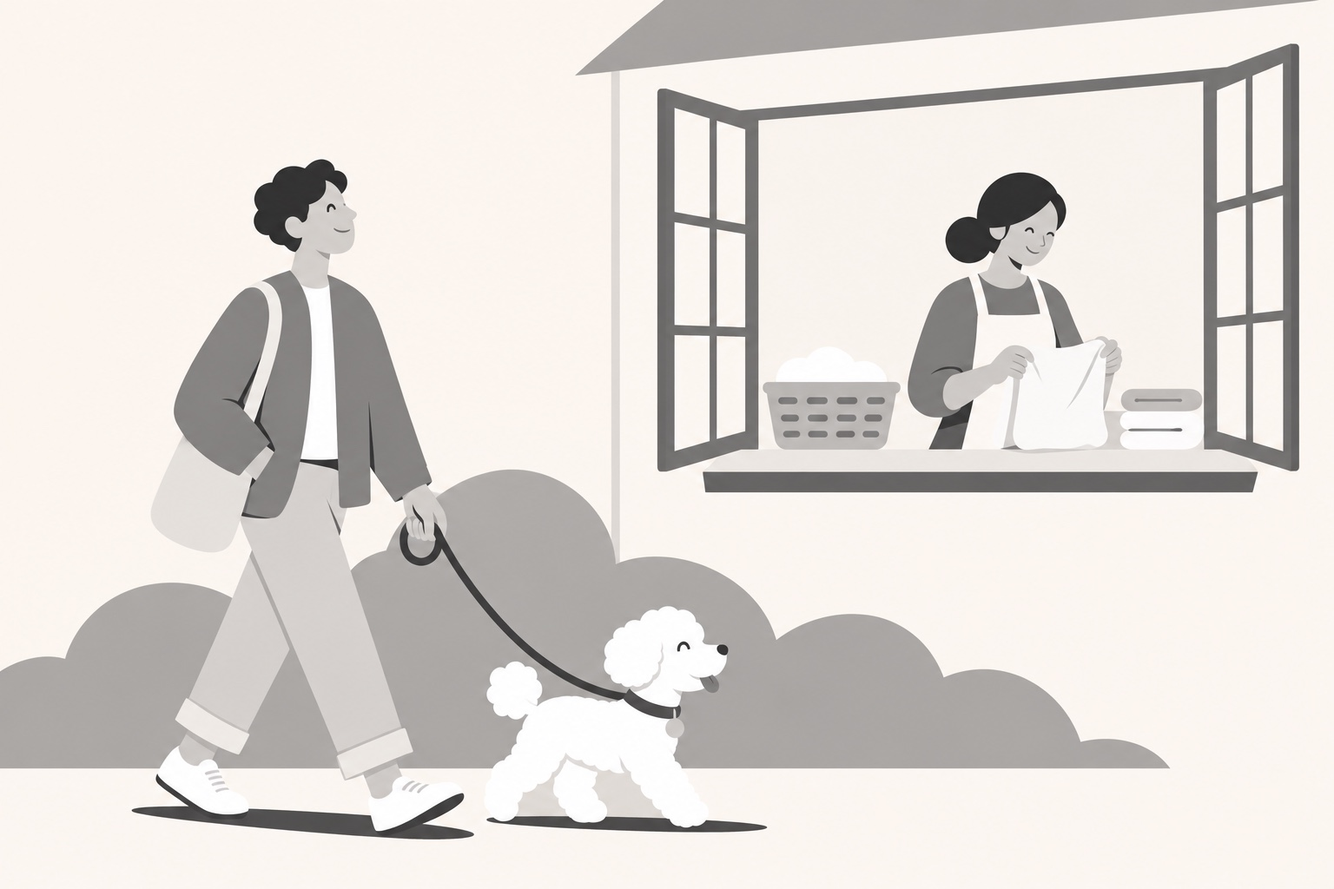
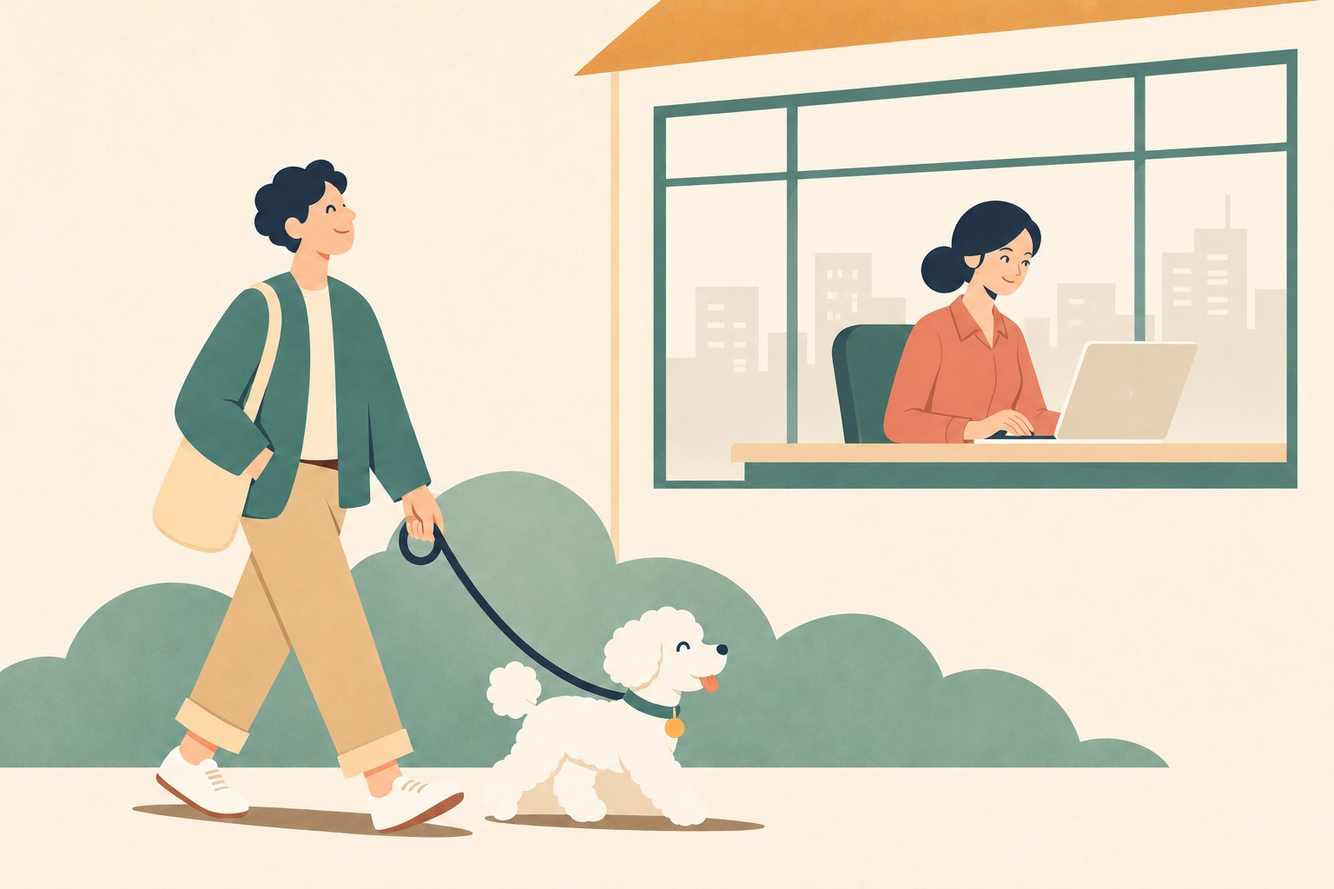
Refine Mongram visual stories and restore LaLaTulle side hero

diff --git a/mongram.html b/mongram.html
@@ -11,7 +11,7 @@
 <link rel="icon" href="data:," />
 <link rel="stylesheet" href="site-header.css?v=2" />
 <link rel="stylesheet" href="mongram.css?v=5" />
-<link rel="stylesheet" href="mongram-narrative-20261108.css?v=20261108-breeds-plan" />
+<link rel="stylesheet" href="mongram-narrative-20261108.css?v=20261109-character-layout" />
   <link rel="stylesheet" href="portfolio-images.css?v=20261108" />
     <link rel="stylesheet" href="portfolio-footer.css?v=20261108-full-link" />
 </head>
@@ -37,12 +37,12 @@
 <figure class="shot-slot shot-phone" data-screenshot-slot="hero-home"><img src="assets/mongram/home-demo.png" alt="Mongram seated-dog Home, November 5 simulator demo" width="1206" height="2622" fetchpriority="high"/><figcaption data-case-en="Home" data-case-ko="홈">ホーム</figcaption></figure>
 <figure class="shot-slot shot-phone" data-screenshot-slot="hero-walk"><img src="assets/mongram/walk-demo.png" alt="Mongram active-walk interface, November 5 simulator demo" width="1206" height="2622" fetchpriority="high"/><figcaption data-case-en="Active walk" data-case-ko="산책 중">散歩中</figcaption></figure></div></section>
 <section class="mg-summary mg-shell n-compact-facts"><div><span class="eyebrow">ROLE</span><p data-case-en="Product planning · Information architecture · UI&lt;br&gt;Implementation with GPT / Codex" data-case-ko="기획·정보 구조·UI 디자인&lt;br&gt;GPT / Codex와 구현">企画・情報設計・UIデザイン<br>GPT / Codexと実装</p></div><div><span class="eyebrow">CODE</span><p>Swift · SwiftUI · SwiftData</p></div></section>
-<section id="problem" class="n-section "><div class="n-wrap"><h2 data-case-en="Sharing the time spent apart" data-case-ko="함께하지 못한 시간도 가족과 공유">離れている時間も、家族で共有</h2><p class="n-intro" data-case-en="While I walk our dog, my wife sometimes handles the housework. That experience led me to design a way for family to share the dog’s day." data-case-ko="제가 강아지와 산책할 때 아내는 집안일을 하기도 합니다. 이 경험에서, 함께하지 못한 강아지의 하루를 가족과 나누는 앱을 생각했습니다.">私が散歩する間、妻は家事をしている。その経験から、別々に過ごす家族と愛犬の一日を共有するアプリを考えました。</p><div class="n-scenario-art"><figure><img src="assets/mongram/scenario-shared-care-20261108.jpg" width="1536" height="1024" alt="Illustrated scenario: one adult walks the dog while another folds laundry at home" loading="lazy"/><figcaption data-case-en="A couple with busy everyday lives" data-case-ko="바쁜 일상을 보내는 부부">忙しい毎日を送る夫婦</figcaption></figure><figure><img src="assets/mongram/scenario-family-apart-20261108.jpg?v=family-20261108" width="1536" height="1024" alt="Illustrated scenario: family in different homes sharing the dog’s day" loading="lazy"/><figcaption data-case-en="Family living apart" data-case-ko="떨어져 사는 가족">離れて暮らす家族</figcaption></figure></div><p class="n-evidence" data-case-en="I also observed nearby couples walking dogs. Their reasons for walking separately were not investigated; a need for sharing remains a hypothesis." data-case-ko="주변 부부들의 산책도 관찰했습니다. 따로 걷는 이유를 물은 것은 아니므로, 공유의 필요성은 가설입니다.">近所の夫婦の散歩も観察。ただし、別々に歩く理由は聞いておらず、共有の必要性は仮説です。</p></div></section>
+<section id="problem" class="n-section "><div class="n-wrap"><h2 data-case-en="Sharing the time spent apart" data-case-ko="함께하지 못한 시간도 가족과 공유">離れている時間も、家族で共有</h2><p class="n-intro" data-case-en="For couples with busy everyday lives, I designed a way to share the dog’s day even when they cannot walk together." data-case-ko="바쁜 일상을 보내는 부부가 함께 산책하지 못해도, 강아지의 하루를 서로 나눌 수 있도록 생각했습니다.">忙しい毎日を送る夫婦が、一緒に散歩できなくても愛犬の一日を共有できるように考えました。</p><div class="n-scenario-art"><figure><img src="assets/mongram/scenario-shared-care-20261108.jpg?v=color-office-20261109" width="1536" height="1024" alt="Illustrated scenario: a husband walks the dog while his wife works in an office" loading="lazy"/><figcaption data-case-en="A couple with busy everyday lives" data-case-ko="바쁜 일상을 보내는 부부">忙しい毎日を送る夫婦</figcaption></figure><figure><img src="assets/mongram/scenario-family-apart-20261108.jpg?v=color-family-20261109" width="1536" height="1024" alt="Illustrated scenario: family in different homes sharing the dog’s day" loading="lazy"/><figcaption data-case-en="Family living apart" data-case-ko="떨어져 사는 가족">離れて暮らす家族</figcaption></figure></div><p class="n-evidence" data-case-en="I also observed nearby couples walking dogs. Their reasons for walking separately were not investigated; a need for sharing remains a hypothesis." data-case-ko="주변 부부들의 산책도 관찰했습니다. 따로 걷는 이유를 물은 것은 아니므로, 공유의 필요성은 가설입니다.">近所の夫婦の散歩も観察。ただし、別々に歩く理由は聞いておらず、共有の必要性は仮説です。</p></div></section>
 <section id="decisions" class="n-section n-dark"><div class="n-wrap"><h2 data-case-en="Replay the walk through route and photos" data-case-ko="경로와 사진으로 산책 다시보기">散歩を、ルートと写真で振り返る</h2><p class="n-intro" data-case-en="Replay the route and photos in sequence, so family can follow the walk beyond distance and time." data-case-ko="거리·시간뿐 아니라 경로와 사진을 시간순으로 재생해, 가족이 그날의 산책을 따라가 볼 수 있게 했습니다.">距離や時間だけでなく、ルートと写真を時系列で再生。家族がその日の散歩をたどれるようにしました。</p><ol class="n-sharing-flow" aria-label="Sharing flow"><li><svg viewBox="0 0 24 24" aria-hidden="true" focusable="false" fill="none" stroke="currentColor" stroke-width="1.7" stroke-linecap="round" stroke-linejoin="round"><path d="M4 17c0-4 4-4 4-8s4-4 4-4"/><circle cx="4" cy="19" r="2"/><path d="m12 3 5 2-5 2V3Z"/></svg><span data-case-en="Record the walk" data-case-ko="산책 기록">散歩を記録</span></li><li><svg viewBox="0 0 24 24" aria-hidden="true" focusable="false" fill="none" stroke="currentColor" stroke-width="1.7" stroke-linecap="round" stroke-linejoin="round"><rect x="3" y="5" width="18" height="14" rx="2"/><circle cx="8" cy="10" r="1.3"/><path d="m4 17 5-5 4 4 3-3 4 4"/></svg><span data-case-en="Capture moments" data-case-ko="사진 남기기">写真を残す</span></li><li><svg viewBox="0 0 24 24" aria-hidden="true" focusable="false" fill="none" stroke="currentColor" stroke-width="1.7" stroke-linecap="round" stroke-linejoin="round"><path d="m8 5 11 7-11 7V5Z"/></svg><span data-case-en="Family replays" data-case-ko="가족이 다시보기">家族が再生</span></li></ol><div class="n-screen-pair n-feature-pair"><figure class="n-figure "><div class="n-image-link"><img src="assets/mongram/history-demo.png" width="1206" height="2622" alt="Mongram family walk history demo" loading="lazy" decoding="async"/></div><figcaption data-case-en="Shared history" data-case-ko="가족 산책 기록">家族の記録</figcaption></figure><figure class="n-figure "><div class="n-image-link"><img src="assets/mongram/replay-demo.png" width="1206" height="2622" alt="Mongram route and photo replay demo" loading="lazy" decoding="async"/></div><figcaption data-case-en="Route and photo replay" data-case-ko="경로·사진 다시보기">ルートと写真の再生</figcaption></figure></div></div></section>
 <section id="home-design" class="n-section "><div class="n-wrap"><h2 data-case-en="Home focuses on walking" data-case-ko="홈은 산책에 집중">ホームは、散歩に集中</h2><p class="n-intro" data-case-en="I replaced an early Home packed with schedules and preventive-medication dates with a focus on starting and revisiting walks." data-case-ko="일정·사상충 예방약 등을 넣었던 초기 홈을, 산책 시작과 기록에 집중하는 화면으로 바꿨습니다.">予定・フィラリア予防薬などを並べた初期案から、散歩の開始と記録を中心にしたホームへ。</p><div class="n-home-comparison"><figure class="n-before"><figcaption class="n-compare-badge" data-case-en="BEFORE / Early structure diagram" data-case-ko="BEFORE / 초기 구성 설명도">BEFORE / 初期構成の模式図</figcaption><div class="n-wireframe"><h3 data-case-en="Home" data-case-ko="홈">ホーム</h3><div><p data-case-en="Schedule" data-case-ko="일정">予定</p></div><div><p data-case-en="Preventive medication" data-case-ko="예방약">予防薬</p></div><div><p data-case-en="Calendar" data-case-ko="캘린더">カレンダー</p></div><div><p data-case-en="Walk" data-case-ko="산책">散歩</p></div></div></figure><div class="n-arrow" aria-hidden="true">→</div><figure class="n-figure n-after"><div class="n-image-link"><img src="assets/mongram/home-demo.png" width="1206" height="2622" alt="Walk-focused seated-dog Home demonstration" loading="lazy" decoding="async"/></div><figcaption data-case-en="AFTER / Walk-focused Home" data-case-ko="AFTER / 산책 중심 홈">AFTER / 散歩中心のホーム</figcaption></figure></div></div></section>
-<section id="character" class="n-section n-paper"><div class="n-wrap"><h2 data-case-en="Characters make opening the app enjoyable" data-case-ko="앱을 여는 재미를 캐릭터로">開く楽しさを、キャラクターで</h2><p class="n-intro" data-case-en="Characters and movement for 18 breeds add a reason to open the app beyond recording. The effect on return visits is untested." data-case-ko="18개 견종의 캐릭터와 움직임으로, 기록할 일이 없어도 앱을 여는 재미를 주고자 했습니다. 재방문 효과는 아직 검증하지 않았습니다.">18犬種のキャラクターと動きで、記録以外にも開く楽しさを。再訪への効果は未検証です。</p><figure class="mg-breed-screen"><img src="assets/mongram/breed-selection-simulator.png" width="1206" height="2622" alt="Mongram breed selection screen in the simulator, disconnected preview with disabled choices" loading="lazy"/><figcaption data-case-en="Breed selection · Simulator preview (disconnected)" data-case-ko="견종 선택 · 시뮬레이터 미연결 프리뷰">犬種選択 · シミュレーターの未接続プレビュー</figcaption></figure><div class="mg-breed-grid"><figure><img src="assets/mongram/breeds/borderCollie.svg" width="112" height="144" alt="Border collie" loading="lazy"/><figcaption data-case-en="Border collie" data-case-ko="보더콜리">ボーダー・コリー</figcaption></figure><figure><img src="assets/mongram/breeds/toyPoodle.svg" width="112" height="144" alt="Toy poodle" loading="lazy"/><figcaption data-case-en="Toy poodle" data-case-ko="토이푸들">トイプードル</figcaption></figure><figure><img src="assets/mongram/breeds/yorkshireTerrier.svg" width="112" height="144" alt="Yorkshire Terrier" loading="lazy"/><figcaption data-case-en="Yorkshire Terrier" data-case-ko="요크셔테리어">ヨークシャー・テリア</figcaption></figure><figure><img src="assets/mongram/breeds/chihuahua.svg" width="112" height="144" alt="Chihuahua" loading="lazy"/><figcaption data-case-en="Chihuahua" data-case-ko="치와와">チワワ</figcaption></figure><figure><img src="assets/mongram/breeds/pomeranian.svg" width="112" height="144" alt="Pomeranian" loading="lazy"/><figcaption data-case-en="Pomeranian" data-case-ko="포메라니안">ポメラニアン</figcaption></figure><figure><img src="assets/mongram/breeds/corgi.svg" width="112" height="144" alt="Welsh Corgi" loading="lazy"/><figcaption data-case-en="Welsh Corgi" data-case-ko="웰시코기">ウェルシュ・コーギー</figcaption></figure><figure><img src="assets/mongram/breeds/cockerSpaniel.svg" width="112" height="144" alt="Cocker Spaniel" loading="lazy"/><figcaption data-case-en="Cocker Spaniel" data-case-ko="코커스패니얼">コッカー・スパニエル</figcaption></figure><figure><img src="assets/mongram/breeds/retriever.svg" width="112" height="144" alt="Retriever" loading="lazy"/><figcaption data-case-en="Retriever" data-case-ko="리트리버">レトリバー</figcaption></figure><figure><img src="assets/mongram/breeds/dachshund.svg" width="112" height="144" alt="Dachshund" loading="lazy"/><figcaption data-case-en="Dachshund" data-case-ko="닥스훈트">ダックスフント</figcaption></figure><figure><img src="assets/mongram/breeds/maltese.svg" width="112" height="144" alt="Maltese" loading="lazy"/><figcaption data-case-en="Maltese" data-case-ko="말티즈">マルチーズ</figcaption></figure><figure><img src="assets/mongram/breeds/husky.svg" width="112" height="144" alt="Siberian Husky" loading="lazy"/><figcaption data-case-en="Siberian Husky" data-case-ko="시베리안 허스키">シベリアン・ハスキー</figcaption></figure><figure><img src="assets/mongram/breeds/papillon.svg" width="112" height="144" alt="Papillon" loading="lazy"/><figcaption data-case-en="Papillon" data-case-ko="파피용">パピヨン</figcaption></figure><figure><img src="assets/mongram/breeds/beagle.svg" width="112" height="144" alt="Beagle" loading="lazy"/><figcaption data-case-en="Beagle" data-case-ko="비글">ビーグル</figcaption></figure><figure><img src="assets/mongram/breeds/schnauzer.svg" width="112" height="144" alt="Schnauzer" loading="lazy"/><figcaption data-case-en="Schnauzer" data-case-ko="슈나우저">シュナウザー</figcaption></figure><figure><img src="assets/mongram/breeds/shiba.svg" width="112" height="144" alt="Shiba inu" loading="lazy"/><figcaption data-case-en="Shiba inu" data-case-ko="시바견">柴犬</figcaption></figure><figure><img src="assets/mongram/breeds/bichon.svg" width="112" height="144" alt="Bichon frisé" loading="lazy"/><figcaption data-case-en="Bichon frisé" data-case-ko="비숑">ビション・フリーゼ</figcaption></figure><figure><img src="assets/mongram/breeds/pug.svg" width="112" height="144" alt="Pug" loading="lazy"/><figcaption data-case-en="Pug" data-case-ko="퍼그">パグ</figcaption></figure><figure><img src="assets/mongram/breeds/dalmatian.svg" width="112" height="144" alt="Dalmatian" loading="lazy"/><figcaption data-case-en="Dalmatian" data-case-ko="달마시안">ダルメシアン</figcaption></figure></div></div></section>
-<section id="island" class="n-section "><div class="n-wrap"><h2 data-case-en="Check progress and return to the app" data-case-ko="산책 중 확인과 앱 복귀">散歩中の確認と、アプリへの復帰</h2><p class="n-intro" data-case-en="Inspired by running apps, time and distance stay visible, with Live Activity providing a quick way back into the app." data-case-ko="러닝 앱처럼 시간·거리를 한눈에 확인하고, Live Activity로 앱에 쉽게 돌아오도록 설계했습니다.">ランニングアプリを参考に、時間・距離をひと目で確認。Live Activityからアプリへ戻りやすくしました。</p><div class="n-screen-pair n-feature-pair"><figure class="n-figure "><div class="n-image-link"><img src="assets/mongram/walk-demo.png" width="1206" height="2622" alt="Mongram active walk demo" loading="lazy" decoding="async"/></div><figcaption data-case-en="Active walk" data-case-ko="산책 중">散歩中</figcaption></figure><figure class="n-figure "><div class="n-image-link"><img src="assets/mongram/lockscreen-demo.png" width="1206" height="2622" alt="Mongram Live Activity simulator demo" loading="lazy" decoding="async"/></div><figcaption data-case-en="Live Activity" data-case-ko="Live Activity">Live Activity</figcaption></figure></div></div></section>
-<section id="status" class="n-section n-dark"><div class="n-wrap"><h2 data-case-en="What remains to test" data-case-ko="앞으로 확인할 것">これから確かめること</h2><div class="mg-visual-tests"><article class="mg-test-row"><div class="mg-test-title"><span>01</span><h3 class="" data-case-en="A walk, start to finish." data-case-ko="산책, 시작부터 끝까지.">散歩を、最後まで。</h3></div><div class="mg-test-flow"><span class="" data-case-en="Home" data-case-ko="홈">ホーム</span><b aria-hidden="true">→</b><span class="" data-case-en="Start" data-case-ko="시작">開始</span><b aria-hidden="true">→</b><span class="" data-case-en="Walk" data-case-ko="산책">散歩</span><b aria-hidden="true">→</b><span class="" data-case-en="Finish" data-case-ko="종료">終了</span></div><p class="mg-test-measure" data-case-en="Measure: completion · friction points" data-case-ko="확인: 완료율 · 막히는 지점">見る指標：完了率・迷う箇所</p></article><article class="mg-test-row"><div class="mg-test-title"><span>02</span><h3 class="" data-case-en="Connect the family." data-case-ko="가족에게 연결되도록.">家族につながる。</h3></div><div class="mg-test-flow"><span class="" data-case-en="Invite" data-case-ko="초대">招待</span><b aria-hidden="true">→</b><span class="" data-case-en="Connect" data-case-ko="연결">接続</span><b aria-hidden="true">→</b><span class="" data-case-en="Push / Today’s record" data-case-ko="푸시 / 오늘 기록">通知 / 今日の記録</span></div><p class="mg-test-measure" data-case-en="Measure: connection success · push delivery · record access" data-case-ko="확인: 연결 성공률 · 알림 수신 · 기록 확인">見る指標：接続成功率・通知受信・記録確認</p></article><article class="mg-test-row mg-test-return"><div class="mg-test-title"><span>03</span><h3 class="" data-case-en="A reason to return daily." data-case-ko="매일, 다시 열 이유.">毎日、開く理由。</h3></div><div class="mg-return-levers"><div><b aria-hidden="true">12h</b><span class="" data-case-en="Post-walk reminder" data-case-ko="산책 완료 후 알림">散歩後の通知</span></div><div><b aria-hidden="true">♡</b><span class="" data-case-en="Dog conversation UI" data-case-ko="강아지 대화형 UI">犬との対話UI</span></div><div><b aria-hidden="true">↔</b><span class="" data-case-en="Family sharing" data-case-ko="가족 공유">家族共有</span></div></div><p class="mg-test-measure" data-case-en="Measure: retention · daily sessions" data-case-ko="확인: 리텐션 · 하루 접속 횟수">見る指標：リテンション・一日の起動回数</p></article></div></div></section>
+<section id="character" class="n-section n-paper"><div class="n-wrap"><h2 data-case-en="Characters make opening the app enjoyable" data-case-ko="앱을 여는 재미를 캐릭터로">開く楽しさを、キャラクターで</h2><p class="n-intro" data-case-en="Characters and movement for 18 breeds add a reason to open the app beyond recording. The effect on return visits is untested." data-case-ko="18개 견종의 캐릭터와 움직임으로, 기록할 일이 없어도 앱을 여는 재미를 주고자 했습니다. 재방문 효과는 아직 검증하지 않았습니다.">18犬種のキャラクターと動きで、記録以外にも開く楽しさを。再訪への効果は未検証です。</p><div class="mg-character-direction"><p class="mg-character-credit" data-case-en="I set the design direction and created the vectors with Codex." data-case-ko="디자인 방향은 직접 정하고, Codex로 벡터를 제작했습니다.">デザインの方向を定め、Codexでベクターを制作。</p><div><span class="" data-case-en="Minimal character" data-case-ko="미니멀한 캐릭터">ミニマルなキャラクター</span><span class="" data-case-en="Notion-logo reference" data-case-ko="Notion 로고 느낌">Notionロゴの表現を参考に</span><span class="" data-case-en="Starting with toy poodle" data-case-ko="토이푸들에서 시작">トイプードルから開始</span></div><p class="mg-character-origin" data-case-en="Earlier loading-art feedback: small, hand-drawn; avoid exaggerated head/body proportions." data-case-ko="초기 로딩 시안 피드백: 작고 손그림처럼 · 머리·몸 비례 과장 없이">初期ローディング案へのフィードバック：小さく、手描きらしく。頭・体の比率を誇張しない。</p></div><div class="mg-character-showcase"><figure class="mg-breed-screen"><img src="assets/mongram/breed-selection-user.png" width="664" height="1436" alt="Mongram dog character selection screen supplied by the user" loading="lazy"/><figcaption data-case-en="Dog character selection" data-case-ko="강아지 캐릭터 선택">犬のキャラクター選択</figcaption></figure><div class="mg-breed-grid"><figure><img src="assets/mongram/breeds/borderCollie.svg" width="112" height="144" alt="Border collie" loading="lazy"/><figcaption data-case-en="Border collie" data-case-ko="보더콜리">ボーダー・コリー</figcaption></figure><figure><img src="assets/mongram/breeds/toyPoodle.svg" width="112" height="144" alt="Toy poodle" loading="lazy"/><figcaption data-case-en="Toy poodle" data-case-ko="토이푸들">トイプードル</figcaption></figure><figure><img src="assets/mongram/breeds/yorkshireTerrier.svg" width="112" height="144" alt="Yorkshire Terrier" loading="lazy"/><figcaption data-case-en="Yorkshire Terrier" data-case-ko="요크셔테리어">ヨークシャー・テリア</figcaption></figure><figure><img src="assets/mongram/breeds/chihuahua.svg" width="112" height="144" alt="Chihuahua" loading="lazy"/><figcaption data-case-en="Chihuahua" data-case-ko="치와와">チワワ</figcaption></figure><figure><img src="assets/mongram/breeds/pomeranian.svg" width="112" height="144" alt="Pomeranian" loading="lazy"/><figcaption data-case-en="Pomeranian" data-case-ko="포메라니안">ポメラニアン</figcaption></figure><figure><img src="assets/mongram/breeds/corgi.svg" width="112" height="144" alt="Welsh Corgi" loading="lazy"/><figcaption data-case-en="Welsh Corgi" data-case-ko="웰시코기">ウェルシュ・コーギー</figcaption></figure><figure><img src="assets/mongram/breeds/cockerSpaniel.svg" width="112" height="144" alt="Cocker Spaniel" loading="lazy"/><figcaption data-case-en="Cocker Spaniel" data-case-ko="코커스패니얼">コッカー・スパニエル</figcaption></figure><figure><img src="assets/mongram/breeds/retriever.svg" width="112" height="144" alt="Retriever" loading="lazy"/><figcaption data-case-en="Retriever" data-case-ko="리트리버">レトリバー</figcaption></figure><figure><img src="assets/mongram/breeds/dachshund.svg" width="112" height="144" alt="Dachshund" loading="lazy"/><figcaption data-case-en="Dachshund" data-case-ko="닥스훈트">ダックスフント</figcaption></figure><figure><img src="assets/mongram/breeds/maltese.svg" width="112" height="144" alt="Maltese" loading="lazy"/><figcaption data-case-en="Maltese" data-case-ko="말티즈">マルチーズ</figcaption></figure><figure><img src="assets/mongram/breeds/husky.svg" width="112" height="144" alt="Siberian Husky" loading="lazy"/><figcaption data-case-en="Siberian Husky" data-case-ko="시베리안 허스키">シベリアン・ハスキー</figcaption></figure><figure><img src="assets/mongram/breeds/papillon.svg" width="112" height="144" alt="Papillon" loading="lazy"/><figcaption data-case-en="Papillon" data-case-ko="파피용">パピヨン</figcaption></figure><figure><img src="assets/mongram/breeds/beagle.svg" width="112" height="144" alt="Beagle" loading="lazy"/><figcaption data-case-en="Beagle" data-case-ko="비글">ビーグル</figcaption></figure><figure><img src="assets/mongram/breeds/schnauzer.svg" width="112" height="144" alt="Schnauzer" loading="lazy"/><figcaption data-case-en="Schnauzer" data-case-ko="슈나우저">シュナウザー</figcaption></figure><figure><img src="assets/mongram/breeds/shiba.svg" width="112" height="144" alt="Shiba inu" loading="lazy"/><figcaption data-case-en="Shiba inu" data-case-ko="시바견">柴犬</figcaption></figure><figure><img src="assets/mongram/breeds/bichon.svg" width="112" height="144" alt="Bichon frisé" loading="lazy"/><figcaption data-case-en="Bichon frisé" data-case-ko="비숑">ビション・フリーゼ</figcaption></figure><figure><img src="assets/mongram/breeds/pug.svg" width="112" height="144" alt="Pug" loading="lazy"/><figcaption data-case-en="Pug" data-case-ko="퍼그">パグ</figcaption></figure><figure><img src="assets/mongram/breeds/dalmatian.svg" width="112" height="144" alt="Dalmatian" loading="lazy"/><figcaption data-case-en="Dalmatian" data-case-ko="달마시안">ダルメシアン</figcaption></figure></div></div></div></section>
+<section id="island" class="n-section "><div class="n-wrap"><h2 data-case-en="Time and distance, without opening the app" data-case-ko="앱 밖에서도, 시간과 거리를">アプリの外でも、時間と距離を</h2><p class="n-intro" data-case-en="Check time and distance on the Lock Screen or Dynamic Island. Tap to return to your walk." data-case-ko="잠금화면과 Dynamic Island에서 시간·거리를 확인하고, 탭하면 산책 화면으로 돌아옵니다.">ロック画面とDynamic Islandで時間・距離を確認。タップで散歩画面へ戻れます。</p><div class="n-screen-pair n-feature-pair mg-live-three"><figure class="n-figure "><div class="n-image-link"><img src="assets/mongram/walk-demo.png" width="1206" height="2622" alt="Mongram active walk demo" loading="lazy" decoding="async"/></div><figcaption data-case-en="Active walk" data-case-ko="산책 중">散歩中</figcaption></figure><figure class="n-figure "><div class="n-image-link"><img src="assets/mongram/lockscreen-demo.png" width="1206" height="2622" alt="Mongram Live Activity simulator demo" loading="lazy" decoding="async"/></div><figcaption data-case-en="Live Activity" data-case-ko="Live Activity">Live Activity</figcaption></figure><figure class="n-figure"><div class="n-image-link"><img src="assets/mongram/dynamic-island-user.jpeg" width="709" height="1536" alt="User-provided Mongram Dynamic Island showing distance and elapsed time" loading="lazy"/></div><figcaption>Dynamic Island</figcaption></figure></div></div></section>
+<section id="status" class="n-section n-dark"><div class="n-wrap"><h2 data-case-en="What remains to test" data-case-ko="앞으로 확인할 것">これから確かめること</h2><div class="mg-visual-tests mg-evidence-tests"><article class="mg-test-row"><div class="mg-test-title"><span>01</span><h3 class="" data-case-en="A walk, start to finish." data-case-ko="산책, 시작부터 끝까지.">散歩を、最後まで。</h3></div><div class="mg-plan-screens"><img src="assets/mongram/home-demo.png" alt="Home screen" loading="lazy"/><img src="assets/mongram/walk-demo.png" alt="Walk screen" loading="lazy"/><img src="assets/mongram/history-demo.png" alt="Walk history screen" loading="lazy"/></div><div class="mg-test-flow"><span class="" data-case-en="Home" data-case-ko="홈">ホーム</span><b aria-hidden="true">→</b><span class="" data-case-en="Start" data-case-ko="시작">開始</span><b aria-hidden="true">→</b><span class="" data-case-en="Walk" data-case-ko="산책">散歩</span><b aria-hidden="true">→</b><span class="" data-case-en="Finish" data-case-ko="종료">終了</span></div><p class="mg-test-measure" data-case-en="Measure: completion · friction points" data-case-ko="확인: 완료율 · 막히는 지점">見る指標：完了率・迷う箇所</p></article><article class="mg-test-row"><div class="mg-test-title"><span>02</span><h3 class="" data-case-en="Connect the family." data-case-ko="가족에게 연결되도록.">家族につながる。</h3></div><div class="mg-plan-family"><img src="assets/mongram/scenario-family-apart-20261108.jpg?v=color-family-20261109" alt="Illustrated family sharing scenario" loading="lazy"/></div><div class="mg-test-flow"><span class="" data-case-en="Invite" data-case-ko="초대">招待</span><b aria-hidden="true">→</b><span class="" data-case-en="Connect" data-case-ko="연결">接続</span><b aria-hidden="true">→</b><span class="" data-case-en="Push / Today’s record" data-case-ko="푸시 / 오늘 기록">通知 / 今日の記録</span></div><p class="mg-test-measure" data-case-en="Measure: connection success · push delivery · record access" data-case-ko="확인: 연결 성공률 · 알림 수신 · 기록 확인">見る指標：接続成功率・通知受信・記録確認</p></article><article class="mg-test-row mg-test-return"><div class="mg-test-title"><span>03</span><h3 class="" data-case-en="A reason to return daily." data-case-ko="매일, 다시 열 이유.">毎日、開く理由。</h3></div><div class="mg-plan-dog"><img src="assets/mongram/breeds/toyPoodle.svg" alt="Toy poodle character" loading="lazy"/></div><div class="mg-return-levers"><div><b aria-hidden="true">12h</b><span class="" data-case-en="Post-walk reminder" data-case-ko="산책 완료 후 알림">散歩後の通知</span></div><div><b aria-hidden="true">♡</b><span class="" data-case-en="Dog conversation UI" data-case-ko="강아지 대화형 UI">犬との対話UI</span></div><div><b aria-hidden="true">↔</b><span class="" data-case-en="Family sharing" data-case-ko="가족 공유">家族共有</span></div></div><p class="mg-test-measure" data-case-en="Measure: retention · daily sessions" data-case-ko="확인: 리텐션 · 하루 접속 횟수">見る指標：リテンション・一日の起動回数</p></article></div></div></section>
 <nav class="portfolio-next-section mg-next-full" aria-label="Next project"><a href="wivlo.html"><span>Next project</span><strong>Wivlo</strong></a></nav></main>
 <nav class="mg-footer mg-shell portfolio-project-navigation" aria-label="Project navigation">
 <a href="index.html#projects"> <span data-case-en="All projects" data-case-ko="전체 프로젝트" >プロジェクト一覧</span>

diff --git a/lalatulle.html b/lalatulle.html
@@ -18,7 +18,7 @@
     <link rel="stylesheet" href="case-compact.css?v=1" />
     <link rel="stylesheet" href="lalatulle-story-reference-20261108.css?v=16" />
     <link rel="stylesheet" href="case-visual-stories.css?v=1" />
-  <link rel="stylesheet" href="lalatulle-narrative-20261108.css?v=grid-sequence-20261108" />
+  <link rel="stylesheet" href="lalatulle-narrative-20261108.css?v=side-hero-20261109" />
   <link rel="stylesheet" href="portfolio-images.css?v=20261108" />
     <link rel="stylesheet" href="portfolio-footer.css?v=20261108-next" />
 <link rel="stylesheet" href="lalatulle-three-cases.css?v=6" />
@@ -31,7 +31,7 @@
 <nav class="ln-chapters lt-case-index" aria-label="Three LaLaTulle case studies"><a href="#halloween" class="lt-case-entry"><div class="lt-case-thumbnail"><img src="assets/lalatulle/figma-source/22c7c.png" alt="" loading="lazy" /></div><span class="lt-case-number">CASE 01</span><strong data-case-en="Halloween campaign" data-case-ko="할로윈 특집">ハロウィン特集</strong><span class="lt-case-sub" data-case-en="Category and product discovery" data-case-ko="카테고리·상품 탐색">カテゴリ・商品一覧</span><span class="lt-case-arrow" aria-hidden="true"></span></a><a href="#navigation" class="lt-case-entry"><div class="lt-case-thumbnail"><img src="assets/lalatulle/live-home-20261108.jpg" alt="" loading="lazy" /></div><span class="lt-case-number">CASE 02</span><strong data-case-en="Home landing page" data-case-ko="홈 랜딩페이지">ホーム・ランディング</strong><span class="lt-case-sub" data-case-en="Header, brand and search" data-case-ko="헤더·브랜드·검색">ヘッダー・ブランド・検索</span><span class="lt-case-arrow" aria-hidden="true"></span></a><a href="#experiment" class="lt-case-entry"><div class="lt-case-thumbnail lt-case-notice"><img src="assets/lalatulle/pdp-viewer-notice-user.png" alt="過去24時間で32人が閲覧したことを示す通知のデザイン例" width="304" height="65" loading="lazy" /></div><span class="lt-case-number">CASE 03</span><strong data-case-en="Product detail · A/B test" data-case-ko="상품 상세 PDP · A/B 테스트">商品詳細・A/Bテスト</strong><span class="lt-case-sub" data-case-en="Testing viewer counts" data-case-ko="조회 인원 표시 검증">閲覧人数表示の検証</span><span class="lt-case-arrow" aria-hidden="true"></span></a></nav>
 <section class="ln-section" id="halloween">
 <header class="ln-heading"><span>CASE 01 / HALLOWEEN CAMPAIGN</span><h2 class="" data-case-en="Redesigning the Halloween page and product lists" data-case-ko="할로윈 특집 페이지 구성과 상품 목록 개선">ハロウィン特集の構成と商品一覧を改善</h2></header><dl class="lt-case-brief"><div><dt data-case-en="Problem" data-case-ko="문제">課題</dt><dd data-case-en="Categories and products formed one long page." data-case-ko="카테고리·상품 목록이 길게 이어졌습니다.">縦に続くカテゴリと商品一覧。</dd></div><div><dt data-case-en="Decision" data-case-ko="판단">判断</dt><dd data-case-en="Shorten category selection and the path to products." data-case-ko="카테고리 선택과 상품 접근 동선을 줄이기로 했습니다.">選び直しと商品への移動を短く。</dd></div><div><dt data-case-en="Change" data-case-ko="변경">変更</dt><dd data-case-en="Nine products became six, then category tabs followed." data-case-ko="9개→6개로 줄인 뒤 카테고리 전환으로 개선했습니다.">9点→6点、次にカテゴリ切替へ。</dd></div><div><dt data-case-en="Result" data-case-ko="결과">結果</dt><dd data-case-en="Separate autumn results from the November iteration." data-case-ko="가을 성과와 11월 재개선은 나눠 평가합니다.">秋の実績と11月の再改善を分けて評価。</dd></div></dl>
-<p class="ln-intro" data-case-en="I revised category navigation and the number of products displayed. The autumn 2025 release and the November update after the season ended on October 31 are presented separately." data-case-ko="카테고리 선택과 상품 표시 수를 조정했습니다. 2025년 가을 개선과 10월 31일 시즌 종료 후 11월에 다시 개선한 내용을 구분해 소개합니다.">カテゴリ選択と商品表示数を見直しました。2025年秋の改修と、10月31日のシーズン終了後に行った11月の再改善を分けて紹介します。</p>
+
 <div class="ln-stage" id="category-redesign"><div class="ln-stage-copy"><h3 class="" data-case-en="Consolidating categories into a horizontal menu" data-case-ko="카테고리 선택을 가로 메뉴로 통합">カテゴリ選択を横並びに集約</h3>
 <p class="" data-case-en="I grouped categories into a horizontal scrolling menu and added links to all products and sale items." data-case-ko="카테고리를 가로 스크롤 메뉴로 묶고 전체 상품·세일 링크를 추가했습니다.">カテゴリを横スクロールのメニューにまとめ、全商品・セールへのリンクも追加しました。</p>
 </div><div class="ln-category-pair">
@@ -40,7 +40,7 @@
 <figure class=""><figcaption class="ln-comparison-label">AFTER</figcaption><div class="ln-image-link"><img src="assets/lalatulle/figma-source/f99cc.png" alt="Horizontal Halloween categories with all products and sale" loading="lazy" decoding="async" width="1298" height="400"/></div></figure>
 </div></div>
 <div class="ln-stage"><div class="ln-stage-copy"><h3 class="" data-case-en="Refreshing outdated banners" data-case-ko="오래된 배너 이미지 교체">古くなったバナー画像を更新</h3>
-<p class="" data-case-en="I replaced banner images that had not been updated for two years." data-case-ko="2년간 갱신하지 않은 배너 이미지를 새 이미지로 교체했습니다.">2年間更新されていなかったバナー画像を、新しい画像に差し替えました。</p>
+<p class="" data-case-en="I replaced banner images that we had been unable to update for two years." data-case-ko="2년간 갱신하지 못한 배너 이미지를 새 이미지로 교체했습니다.">2年間更新できていなかったバナー画像を、新しい画像に差し替えました。</p>
 </div><div class="ln-banner-pair">
 <figure class=""><figcaption class="ln-comparison-label">BEFORE</figcaption><div class="ln-image-link"><img src="assets/lalatulle/figma-source/4b8f8.png" alt="Bunny category banner before redesign" loading="lazy" decoding="async" width="1646" height="478"/></div></figure>
 <figure class=""><figcaption class="ln-comparison-label">AFTER</figcaption><div class="ln-image-link"><img src="assets/lalatulle/figma-source/b94da.png" alt="Bunny category banner after redesign" loading="lazy" decoding="async" width="800" height="220"/></div></figure>

diff --git a/mongram-narrative-20261108.css b/mongram-narrative-20261108.css
@@ -81,3 +81,10 @@
 @media(max-width:600px){.mg-test-row{padding:28px 0}.n-section .mg-test-title h3{font-size:25px}.mg-test-flow{gap:7px;flex-wrap:wrap}.mg-test-flow>span{padding:15px 6px;font-size:17px;min-width:46px}.mg-test-flow>b{font-size:16px}.mg-return-levers{flex-direction:column;gap:18px}.mg-return-levers b{width:46px;height:46px}.mg-return-levers span{font-size:18px}.n-section .mg-test-measure{font-size:12px}.mg-return-goal{gap:12px}}
 .mg-breed-grid{display:grid;grid-template-columns:repeat(6,minmax(0,1fr));gap:30px 18px;padding:32px 24px;background:#fff;border-radius:16px}.mg-breed-grid figure{margin:0;text-align:center;min-width:0}.mg-breed-grid img{display:block;width:100%;max-width:112px;height:auto;margin:0 auto 14px}.mg-breed-grid figcaption{font-size:13px;line-height:1.5;color:#344c3c;overflow-wrap:anywhere}@media(max-width:760px){.mg-breed-grid{grid-template-columns:repeat(3,minmax(0,1fr));gap:24px 12px;padding:24px 16px}.mg-breed-grid figcaption{font-size:11px}}
 .mg-breed-screen{margin:0 0 40px;padding:36px;background:#e9eee5;border-radius:16px}.mg-breed-screen img{display:block;width:100%;max-width:300px;height:auto;margin:auto;border-radius:20px;box-shadow:0 14px 40px #29322512}.mg-breed-screen figcaption{text-align:center;font-size:12px;line-height:1.6;color:#667660;margin-top:18px}@media(max-width:600px){.mg-breed-screen{padding:24px 18px}.mg-breed-screen img{border-radius:12px}}
+.mg-character-showcase{display:grid;grid-template-columns:minmax(230px,.8fr) minmax(0,2fr);gap:28px;align-items:start}.mg-character-showcase .mg-breed-screen{margin:0;padding:22px 16px}.mg-character-showcase .mg-breed-screen img{max-width:280px}.mg-character-showcase .mg-breed-grid{padding:24px 16px;gap:24px 12px}.mg-character-showcase .mg-breed-grid figcaption{font-size:11px}.mg-character-direction{margin:0 0 30px}.n-section .mg-character-credit{font-size:17px;color:#344c3c;line-height:1.7}.mg-character-direction>div{display:flex;flex-wrap:wrap;gap:12px 28px;margin-top:16px}.mg-character-direction span{font-size:14px;color:#637660;border-bottom:1px solid #c9d5c5;padding-bottom:8px}@media(max-width:1000px){.mg-character-showcase{grid-template-columns:1fr}.mg-character-showcase .mg-breed-screen{max-width:360px;width:100%;margin:auto}.mg-character-showcase .mg-breed-grid{grid-template-columns:repeat(6,minmax(0,1fr))}}@media(max-width:760px){.mg-character-showcase .mg-breed-grid{grid-template-columns:repeat(3,minmax(0,1fr))}.n-section .mg-character-credit{font-size:15px}.mg-character-direction span{font-size:13px}}
+.n-section .mg-character-origin{font-size:12px;line-height:1.7;color:#71816b;margin-top:18px}
+
+.mg-live-three{grid-template-columns:repeat(3,minmax(0,300px));gap:28px}
+.mg-evidence-tests{grid-template-columns:1fr 1fr;gap:42px 32px}.mg-evidence-tests .mg-test-row{border:0;padding:0;min-width:0}.mg-evidence-tests .mg-test-row:first-child{grid-column:1/-1}.mg-plan-screens{display:flex;justify-content:center;gap:32px;padding:36px;background:#e8ede2;border-radius:18px;margin-bottom:25px}.mg-plan-screens img{width:calc((100% - 64px)/3);max-width:205px;height:auto;object-fit:contain;border-radius:15px}.mg-evidence-tests .mg-test-flow>span{background:none;border:0;padding:0;font-size:18px}.mg-evidence-tests .mg-test-flow{gap:10px}.mg-plan-family{height:260px;overflow:hidden;border-radius:16px;margin-bottom:26px;background:#f8f3e9}.mg-plan-family img{width:100%;height:100%;object-fit:contain}.mg-plan-dog{height:260px;display:flex;justify-content:center;background:#e8ede2;border-radius:16px;margin-bottom:26px}.mg-plan-dog img{height:100%;width:180px;object-fit:contain}.mg-evidence-tests .mg-return-levers{gap:14px;flex-direction:row}.mg-evidence-tests .mg-return-levers>div{flex-direction:column;text-align:center;gap:8px}.mg-evidence-tests .mg-return-levers span{font-size:14px}.mg-evidence-tests .mg-return-levers b{width:42px;height:42px;font-size:19px}.n-section .mg-evidence-tests .mg-test-title h3{font-size:27px}
+@media(max-width:700px){.mg-evidence-tests{grid-template-columns:1fr;gap:38px}.mg-plan-screens{gap:12px;padding:20px 12px}.mg-plan-screens img{width:calc((100% - 24px)/3);border-radius:6px}.mg-evidence-tests .mg-test-flow>span{font-size:14px}.mg-plan-family,.mg-plan-dog{height:230px}.mg-live-three{grid-template-columns:repeat(3,minmax(0,1fr));gap:12px}}
+@media(max-width:500px){.mg-live-three{grid-template-columns:minmax(0,300px)}}

diff --git a/lalatulle-narrative-20261108.css b/lalatulle-narrative-20261108.css
@@ -251,3 +251,5 @@ body.lt-narrative .ln-footer-part:last-child>.ln-image-link{border-radius:0 0 8p
 .lt-narrative .ln-footer-part h4{font-size:22px;line-height:1.5;margin:0 0 14px}
 .lt-narrative .ln-footer-part p{font-size:16px;line-height:1.85;margin:0;color:var(--muted)}
 @media(max-width:760px){.lt-narrative .ln-footer-evidence>.ln-footer-part{grid-template-columns:1fr;gap:0;margin-bottom:32px}.lt-narrative .ln-footer-evidence>.ln-footer-part:last-child{margin-bottom:0}.lt-narrative .ln-footer-part figcaption{padding:20px 0 0}.lt-narrative .ln-footer-part h4{font-size:21px;margin-bottom:10px}body.lt-narrative .ln-footer-part>.ln-image-link{border-radius:8px}}
+/* Keep the mobile-screen hero beside its introduction on desktop. */
+@media(min-width:861px){.lt-narrative .ln-cover{grid-template-columns:minmax(0,1.35fr) minmax(300px,.8fr);gap:64px;align-items:center}.lt-narrative .ln-cover-image{padding:28px 24px 18px}.lt-narrative .ln-cover-image>.ln-image-link{max-width:270px}}
